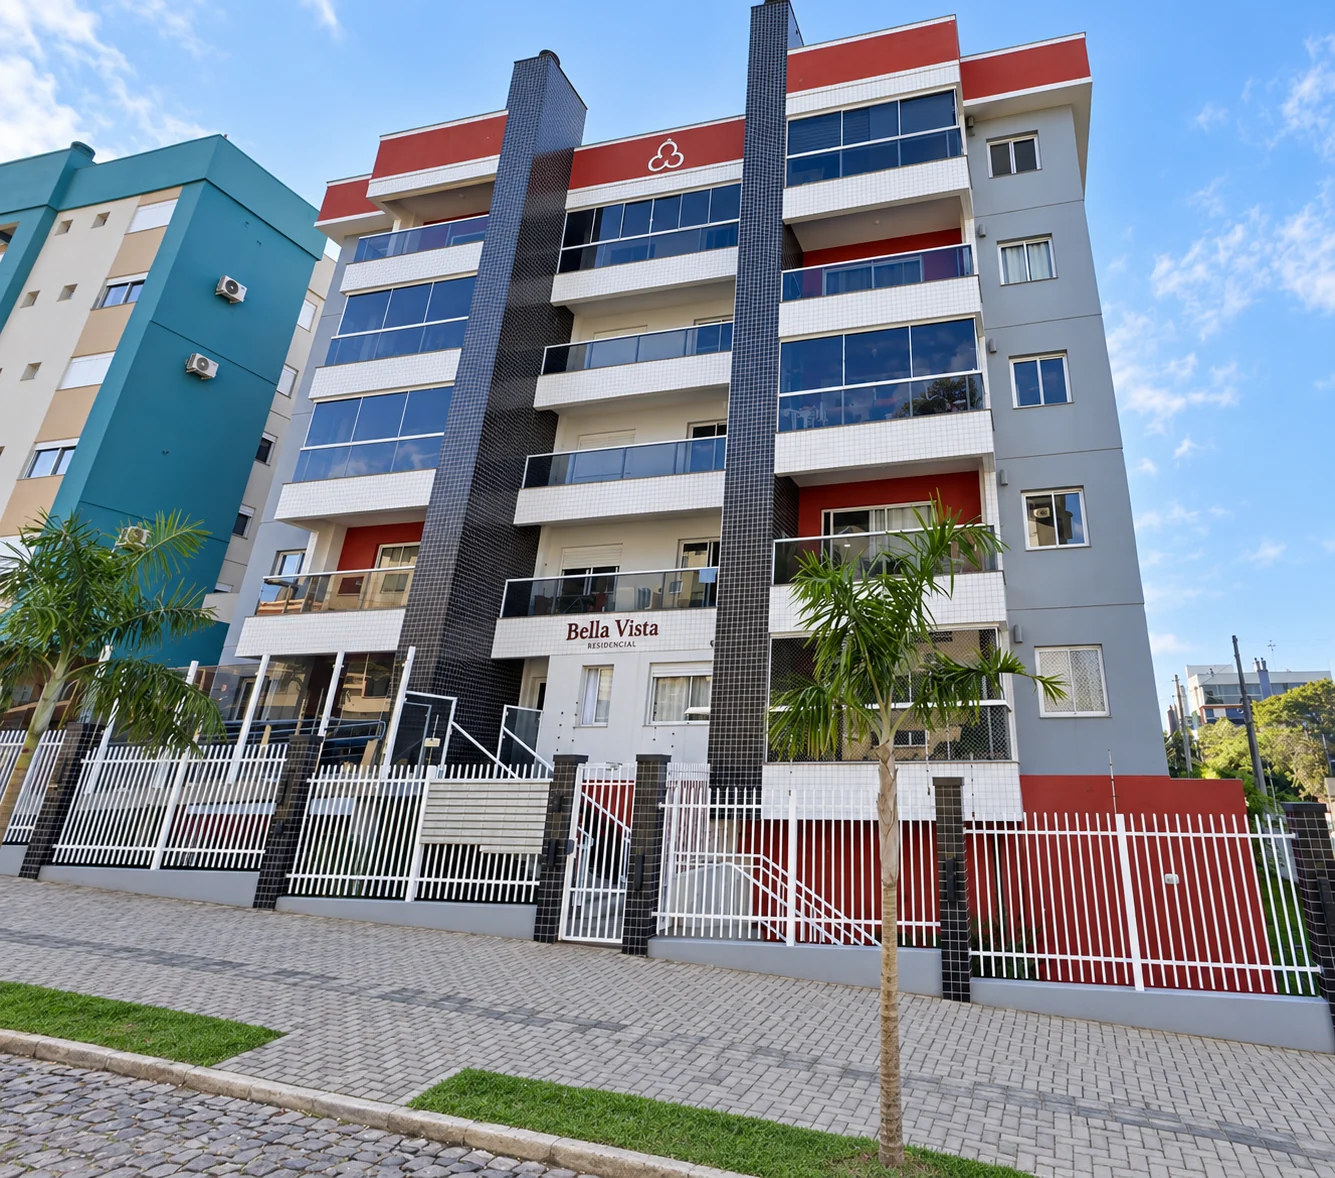
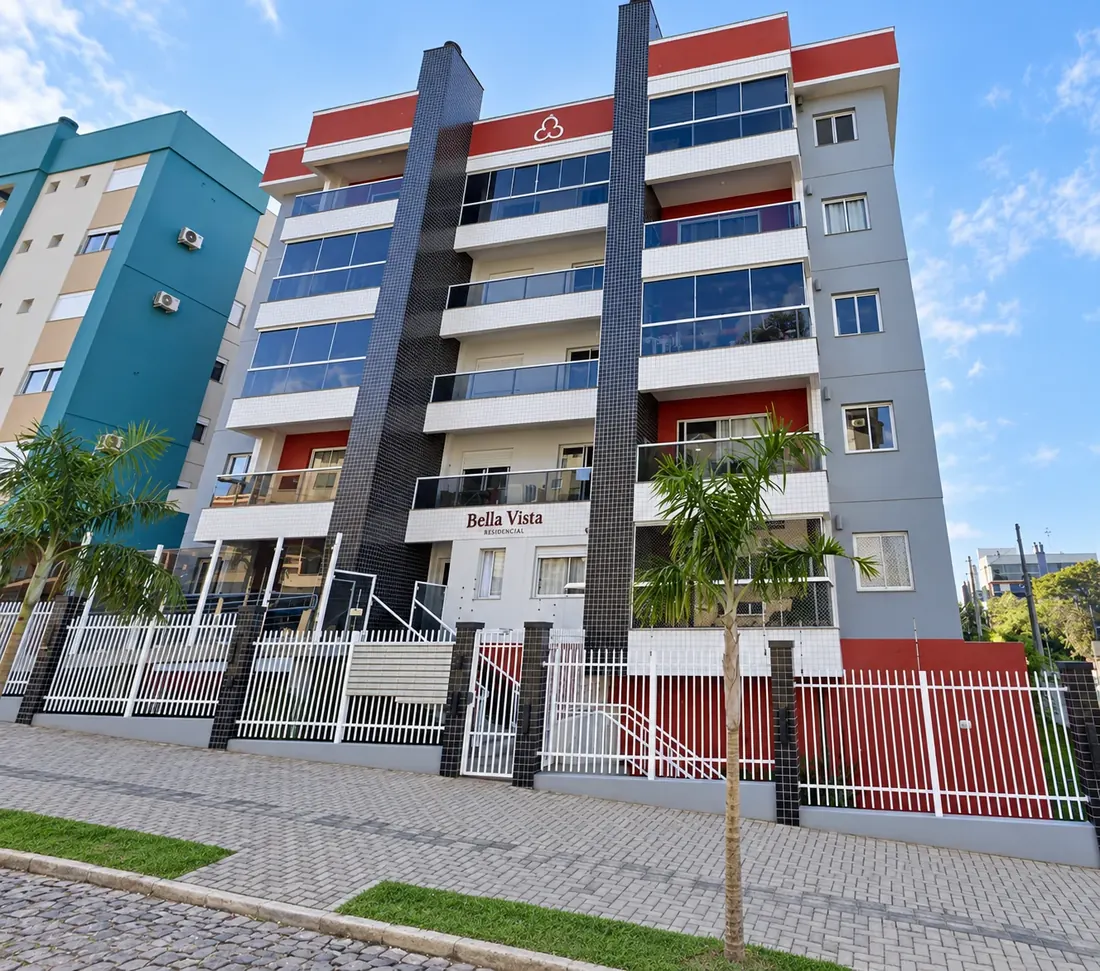
Corrige títulos dos serviços, botão do WhatsApp e peso das imagens
- Adiciona espaço antes da quebra de linha oculta nos títulos dos serviços
- Oculta o botão flutuante do WhatsApp enquanto o topo da página está visível
- Remove imagens .png/.jpeg não utilizadas
- Redimensiona e comprime as três fotos mais pesadas do carrossel

Claude-Session: https://claude.ai/code/session_0168ZPzFXC5mySj5dpsqU2BY

Changed region(s): [[0.5873, 0.7724, 0.6491, 0.8033]]

diff --git a/index.html b/index.html
@@ -89,9 +89,9 @@
             >
                       <img class="hero-slide" src="assets/img/tassia.webp" alt="Condomínio Tassia" width="787" height="1400" aria-hidden="true" decoding="async" loading="lazy" style="object-position: center 38%">
             <img class="hero-slide" src="assets/img/torre-de-vicenza.webp" alt="Condomínio Torre de Vicenza" width="787" height="1400" aria-hidden="true" decoding="async" loading="lazy" style="object-position: center 38%">
-            <img class="hero-slide" src="assets/img/sol-da-montanha.webp" alt="Condomínio Sol da Montanha" width="1231" height="1278" aria-hidden="true" decoding="async" loading="lazy" style="object-position: center 38%">
-            <img class="hero-slide" src="assets/img/bella-vista.webp" alt="Condomínio Bella Vista" width="1335" height="1178" aria-hidden="true" decoding="async" loading="lazy" style="object-position: center 38%">
-            <img class="hero-slide" src="assets/img/di-trento.webp" alt="Condomínio Di Trento" width="1388" height="1133" aria-hidden="true" decoding="async" loading="lazy" style="object-position: center 38%">
+            <img class="hero-slide" src="assets/img/sol-da-montanha.webp" alt="Condomínio Sol da Montanha" width="1100" height="1142" aria-hidden="true" decoding="async" loading="lazy" style="object-position: center 38%">
+            <img class="hero-slide" src="assets/img/bella-vista.webp" alt="Condomínio Bella Vista" width="1100" height="971" aria-hidden="true" decoding="async" loading="lazy" style="object-position: center 38%">
+            <img class="hero-slide" src="assets/img/di-trento.webp" alt="Condomínio Di Trento" width="1100" height="898" aria-hidden="true" decoding="async" loading="lazy" style="object-position: center 38%">
           </div>
           <button class="carousel-pause" type="button" aria-label="Pausar troca automática de fotos">Pausar</button>
           <div class="image-label">
@@ -137,32 +137,32 @@
         <div class="services">
           <article>
             <span class="service-no">01 / FINANÇAS</span>
-            <h3>Gestão financeira<br>transparente</h3>
+            <h3>Gestão financeira <br>transparente</h3>
             <p>Prestação de contas clara para acompanhar despesas e planejar os próximos passos do condomínio.</p>
           </article>
           <article>
             <span class="service-no">02 / SUPORTE</span>
-            <h3>Consultoria<br>para síndicos</h3>
+            <h3>Consultoria <br>para síndicos</h3>
             <p>Acompanhamento administrativo e operacional para apoiar o síndico nas decisões e nas rotinas do condomínio.</p>
           </article>
           <article>
             <span class="service-no">03 / PATRIMÔNIO</span>
-            <h3>Modernização<br>e revitalização</h3>
+            <h3>Modernização <br>e revitalização</h3>
             <p>Planejamento de melhorias com foco no conforto, na segurança e na valorização dos espaços.</p>
           </article>
           <article>
             <span class="service-no">04 / PESSOAS</span>
-            <h3>Atendimento<br>personalizado</h3>
+            <h3>Atendimento <br>personalizado</h3>
             <p>Escuta atenta e acompanhamento das demandas de cada condomínio.</p>
           </article>
           <article>
             <span class="service-no">05 / PARTICIPAÇÃO</span>
-            <h3>Assembleias<br>digitais</h3>
+            <h3>Assembleias <br>digitais</h3>
             <p>Mais comodidade para participar das discussões e decisões da comunidade.</p>
           </article>
           <article>
             <span class="service-no">06 / CONVIVÊNCIA</span>
-            <h3>Gestão<br>de conflitos</h3>
+            <h3>Gestão <br>de conflitos</h3>
             <p>Mediação e diálogo para ajudar a construir uma convivência mais equilibrada.</p>
           </article>
         </div>

diff --git a/assets/css/styles.css b/assets/css/styles.css
@@ -175,7 +175,8 @@ footer { background: var(--color-dark); color: #fff; }
 .footer-top p { font-size: 14px; color: #dfdce3; margin: 0; }
 .footer-top > a:last-child { font-size: 14px; text-decoration: underline; }
 .footer-bottom { display: flex; justify-content: space-between; gap: 20px; border-top: 1px solid #ffffff30; padding-top: 22px; padding-bottom: 27px; font-size: 12px; color: #cfccd2; }
-.floating { position: fixed; bottom: 22px; right: 22px; z-index: 10; background: var(--color-primary); color: #fff; border: 1px solid #ffffff40; border-radius: 4px; padding: 11px 18px; font-size: 14px; font-weight: 500; box-shadow: 0 5px 20px #0000001a; }
+.floating { position: fixed; bottom: 22px; right: 22px; z-index: 10; background: var(--color-primary); color: #fff; border: 1px solid #ffffff40; border-radius: 4px; padding: 11px 18px; font-size: 14px; font-weight: 500; box-shadow: 0 5px 20px #0000001a; transition: opacity .25s, transform .25s; }
+.floating.is-hidden { opacity: 0; transform: translateY(12px); pointer-events: none; visibility: hidden; transition: opacity .25s, transform .25s, visibility 0s .25s; }
 /* Tablets e telas intermediárias */
 @media (max-width: 1050px) {
   .container { width: calc(100% - 56px); }

diff --git a/assets/js/script.js b/assets/js/script.js
@@ -194,6 +194,19 @@ function initializeCarousel() {
   updatePlayback();
 }
 
+// Botão flutuante do WhatsApp: fica oculto enquanto o topo da página está
+// visível, para não cobrir o carrossel. Sem JavaScript, ele aparece sempre.
+function initializeFloatingButton() {
+  const button = document.querySelector('.floating');
+  const hero = document.querySelector('.hero');
+  if (!button || !hero || !('IntersectionObserver' in window)) return;
+  const observer = new IntersectionObserver(([entry]) => {
+    button.classList.toggle('is-hidden', entry.isIntersecting);
+  }, { threshold: 0.15 });
+  observer.observe(hero);
+}
+
 initializeMenu();
 initializeContactForm();
 initializeCarousel();
+initializeFloatingButton();
